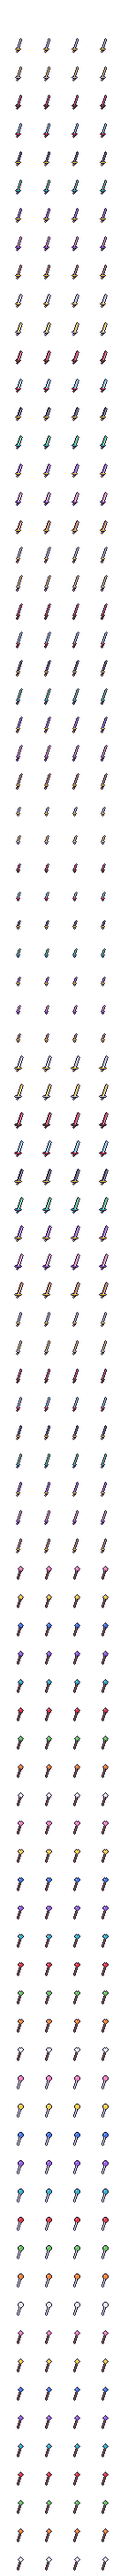
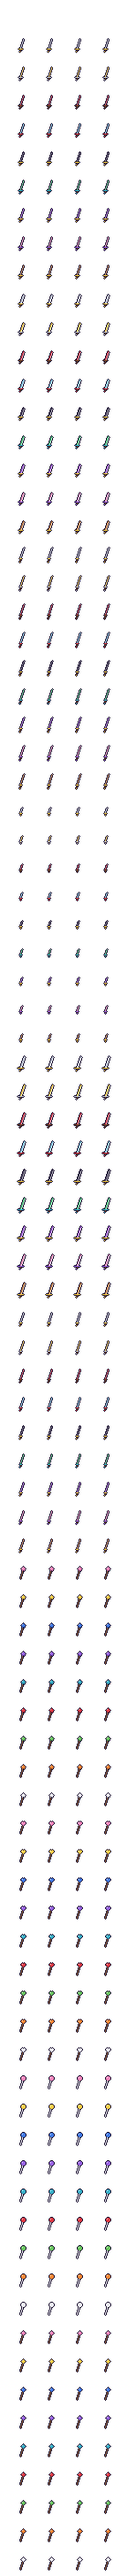
fix: adjust weapon walk spacing, recover knockback hurt state, add tram tunnel portals

diff --git a/src/scenes/trapVisuals.js b/src/scenes/trapVisuals.js
@@ -54,25 +54,127 @@ function roller(scene, trap) {
 }
 
 // TRAM LEWAT -----------------------------------------------------------------------------------
+function buildTunnelPortal(scene, x, G, isLeft) {
+  // 1. Dark cavern interior behind the tram (depth 7.8, behind body at depth 21)
+  const interior = scene.add.graphics().setDepth(DEPTH.trap);
+  interior.fillStyle(0x06080e, 1);
+  interior.fillRect(x - 24, G - 54, 48, 56);
+  interior.fillStyle(0x131924, 0.8);
+  interior.fillRect(x - 22, G - 52, 44, 6);
+
+  // 2. Front Arch Facade in FRONT of the tram (depth 21.5, masks the tram entering/exiting)
+  const facade = scene.add.graphics().setDepth(21.5);
+  const w = 54, h = 64;
+  const left = x - w / 2;
+  const top = G - h;
+
+  // Solid dark stone archway body
+  facade.fillStyle(0x1e2430, 1);
+  facade.fillRect(left, top, w, h);
+
+  // Arch header and pillars (leaving 38px width x 48px opening for the 46px tall tram)
+  facade.fillStyle(0x2d3648, 1);
+  facade.fillRect(left, top, w, 16);             // Arch header
+  facade.fillRect(left, top + 16, 8, 48);        // Outer pillar
+  facade.fillRect(left + w - 8, top + 16, 8, 48);// Inner pillar
+
+  // Cornice trim on top
+  facade.fillStyle(0x0f172a, 1);
+  facade.fillRect(left - 3, top - 2, w + 6, 3);
+  facade.lineStyle(1, 0x64748b, 0.85);
+  facade.lineBetween(left - 3, top - 2, left + w + 3, top - 2);
+
+  // Keystone center block in European arched stone style
+  facade.fillStyle(0x94a3b8, 1);
+  facade.fillRect(x - 5, top + 3, 10, 9);
+  facade.lineStyle(1, 0x000000, 0.7);
+  facade.strokeRect(x - 5, top + 3, 10, 9);
+
+  // Stone block mortar lines
+  facade.lineStyle(1, 0x111622, 0.85);
+  facade.lineBetween(left, top + 8, left + w, top + 8);
+  for (let py = top + 16; py < G; py += 12) {
+    facade.lineBetween(left, py, left + 8, py);
+    facade.lineBetween(left + w - 8, py, left + w, py);
+  }
+
+  // Inner shadow rim around the tunnel mouth
+  facade.fillStyle(0x0a0d14, 0.95);
+  facade.fillRect(left + 8, top + 16, 3, 48);
+  facade.fillRect(left + w - 11, top + 16, 3, 48);
+  facade.fillRect(left + 8, top + 16, w - 16, 4);
+
+  // Warning Railway Lantern above the portal
+  const lantern = scene.add.graphics().setDepth(21.6);
+  lantern.fillStyle(0x111827, 1);
+  lantern.fillRect(x - 3, top - 9, 6, 7);
+
+  return { interior, facade, lantern, x };
+}
+
 function tram(scene, trap) {
   const ext = trap.half + trap.len;
-  const rails = scene.add.tileSprite(trap.x, G - 2, ext * 2 + 36, 6, "trap-rails").setOrigin(0.5, 0).setDepth(DEPTH.rail);
-  const sigL = scene.add.sprite(trap.x - ext - 14, G, "trap-signal", 0).setOrigin(0.5, 1).setDepth(DEPTH.top);
-  const sigR = scene.add.sprite(trap.x + ext + 14, G, "trap-signal", 0).setOrigin(0.5, 1).setDepth(DEPTH.top);
+  const rails = scene.add.tileSprite(trap.x, G - 2, ext * 2 + 56, 6, "trap-rails").setOrigin(0.5, 0).setDepth(DEPTH.rail);
+  const tunnelL = buildTunnelPortal(scene, trap.x - ext, G, true);
+  const tunnelR = buildTunnelPortal(scene, trap.x + ext, G, false);
+  const sigL = scene.add.sprite(trap.x - ext - 34, G, "trap-signal", 0).setOrigin(0.5, 1).setDepth(DEPTH.top);
+  const sigR = scene.add.sprite(trap.x + ext + 34, G, "trap-signal", 0).setOrigin(0.5, 1).setDepth(DEPTH.top);
   const body = scene.add.image(trap.x, G + 1, "trap-tram").setOrigin(0.5, 1).setDepth(DEPTH.front).setAlpha(0).setVisible(false);
+  const beam = scene.add.graphics().setDepth(DEPTH.top);
+
   const obj = {
-    trap, parts: [body], lastBeat: -1, lastActive: false,
+    trap, parts: [body, rails, tunnelL.facade, tunnelR.facade], lastBeat: -1, lastActive: false,
     update(now) {
       const s = tramState(trap, now);
       const beat = Math.floor(now / 250);
       const frame = s.lights ? 1 + (beat % 2) : 0;
       sigL.setFrame(frame); sigR.setFrame(frame === 0 ? 0 : 3 - frame);
+
+      // Warning lantern on the tunnel portal header
+      const lanternColor = s.lights ? (beat % 2 === 0 ? 0xf59e0b : 0xef4444) : 0x475569;
+      tunnelL.lantern.clear();
+      tunnelL.lantern.fillStyle(0x111827, 1).fillRect(tunnelL.x - 3, G - 73, 6, 7);
+      tunnelL.lantern.fillStyle(lanternColor, 1).fillCircle(tunnelL.x, G - 69, 2.5);
+
+      tunnelR.lantern.clear();
+      tunnelR.lantern.fillStyle(0x111827, 1).fillRect(tunnelR.x - 3, G - 73, 6, 7);
+      tunnelR.lantern.fillStyle(lanternColor, 1).fillCircle(tunnelR.x, G - 69, 2.5);
+
+      // Headlight warning beam shining out onto the rails from the tunnel portal
+      beam.clear();
+      if ((s.lights || s.active) && near(scene, trap.x, 420)) {
+        const fromX = s.dir > 0 ? (trap.x - ext) : (trap.x + ext);
+        const toX = fromX + s.dir * 85;
+        const beamY = G - 18;
+        beam.fillStyle(0xfff2b0, s.active ? 0.22 : 0.14);
+        beam.fillTriangle(fromX, beamY, toX, beamY - 14, toX, beamY + 18);
+        beam.fillStyle(0xffffff, s.active ? 0.75 : 0.45);
+        beam.fillCircle(fromX + s.dir * 4, beamY, 3);
+      }
+
       if (s.bell && beat !== obj.lastBeat && near(scene, trap.x, 380)) retroAudio.playBell?.();
       obj.lastBeat = beat;
-      body.setVisible(s.active).setAlpha(s.alpha).setX(s.x).setFlipX(s.dir < 0);
+
+      // Tram is physically masked by the tunnel facade (depth 21.5); keeping alpha solid as it rolls out
+      body.setVisible(s.active).setAlpha(s.active ? 1 : 0).setX(s.x).setFlipX(s.dir < 0);
       if (s.active && !obj.lastActive && near(scene, trap.x, 380)) {
         retroAudio.playTrainWhistle?.();
         scene.cameras?.main?.shake(220, 0.0022);
+        // Spawn steam/track dust puffs as the tram bursts out of the tunnel mouth
+        const mouthX = s.dir > 0 ? (trap.x - ext) : (trap.x + ext);
+        for (let i = 0; i < 5; i++) {
+          const puff = scene.add.circle(mouthX, G - 12, Phaser.Math.Between(3, 5), 0xdde4ec, 0.75).setDepth(21.7);
+          scene.tweens.add({
+            targets: puff,
+            x: puff.x + s.dir * Phaser.Math.Between(15, 30),
+            y: puff.y - Phaser.Math.Between(4, 12),
+            alpha: 0,
+            scale: 1.8,
+            duration: Phaser.Math.Between(320, 500),
+            ease: "Quad.easeOut",
+            onComplete: () => puff.destroy()
+          });
+        }
       }
       obj.lastActive = s.active;
     },

diff --git a/src/scenes/WorldScene.js b/src/scenes/WorldScene.js
@@ -1018,6 +1018,12 @@ export class WorldScene extends Phaser.Scene {
       this.networkCharacterState = { state: `hurt-${this.playerFacing}`, grounded: false, vx: dir * TRAP.knockbackX, vy: -TRAP.knockbackY };
       this.setAvatarAnimation(`hurt-${this.playerFacing}`);
       this.trapKnockUntil = this.time.now + 350;
+      this.time.delayedCall(360, () => {
+        if (!this.player?.body || this.playerKo) return;
+        this.player.body.setVelocity(0, 0);
+        this.setAvatarAnimation("idle");
+        this.networkCharacterState = { state: "idle", grounded: this.player.body.onFloor(), vx: 0, vy: 0 };
+      });
       this.cameras.main.shake(140, 0.006);
       const damage = Number(data.damage) || 15;
       const newHp = Math.max(0, this.playerHp - damage);
@@ -1126,6 +1132,12 @@ export class WorldScene extends Phaser.Scene {
     this.player.body.reset(result.respawnX, result.respawnY);
     this.syncAvatarLayers();
     this.setAvatarAnimation(`hurt-${this.playerFacing}`);
+    this.time.delayedCall(420, () => {
+      if (!this.player?.body || this.playerKo) return;
+      this.player.body.setVelocity(0, 0);
+      this.setAvatarAnimation("idle");
+      this.networkCharacterState = { state: "idle", grounded: this.player.body.onFloor(), vx: 0, vy: 0 };
+    });
     this.time.delayedCall(1600, () => { this.hitCooldown = false; });
   }
 
@@ -3383,6 +3395,13 @@ export class WorldScene extends Phaser.Scene {
 
     // Trap knock-back: keep the push for a moment instead of letting held input cancel it.
     if (this.time.now < (this.trapKnockUntil || 0)) return;
+
+    // Safety recovery: stop knockback velocity once stun expires so the character doesn't slide/walk endlessly
+    if (this.avatarState.startsWith("hurt") && !this.playerKo) {
+      body.setVelocityX(0);
+      this.setAvatarAnimation("idle");
+      this.networkCharacterState = { state: "idle", grounded: body.onFloor(), vx: 0, vy: 0 };
+    }
 
     // Watchdog safety checks: prevent any flag from freezing player permanently
     if (this.isAttacking && (!this.attackStartTime || this.time.now - this.attackStartTime > 450)) {

diff --git a/src/scenes/TrainTravelScene.js b/src/scenes/TrainTravelScene.js
@@ -168,6 +168,18 @@ export class TrainTravelScene extends Phaser.Scene {
       color: "#fff3c5", backgroundColor: "#203449", padding: { x: 7, y: 5 },
       stroke: "#111", strokeThickness: 3
     }).setOrigin(0.5).setDepth(11);
+
+    // Station track tunnel portals framing train arrival & departure (depth 12, in front of train at depth 10)
+    const portalH = 82;
+    const tunnelLeft = this.add.graphics().setDepth(12);
+    tunnelLeft.fillStyle(0x1a212d, 1).fillRect(-8, railY - portalH, 32, portalH);
+    tunnelLeft.fillStyle(0x2d3648, 1).fillRect(18, railY - portalH, 6, portalH);
+    tunnelLeft.lineStyle(1.5, 0x475569, 0.9).strokeRect(-8, railY - portalH, 32, portalH);
+
+    const tunnelRight = this.add.graphics().setDepth(12);
+    tunnelRight.fillStyle(0x1a212d, 1).fillRect(W - 24, railY - portalH, 32, portalH);
+    tunnelRight.fillStyle(0x2d3648, 1).fillRect(W - 24, railY - portalH, 6, portalH);
+    tunnelRight.lineStyle(1.5, 0x475569, 0.9).strokeRect(W - 24, railY - portalH, 32, portalH);
   }
 
   drawStationPlatform(groundY) {

diff --git a/tools/make-gear-sheets.py b/tools/make-gear-sheets.py
@@ -148,7 +148,9 @@ def lighter(c, f=.55): return tuple(int(v + (255 - v) * f) for v in c)
 def weapon_frame(spec, a, d, anim="Idle", col=0):
     out = Image.new("RGBA", (F, F), (0, 0, 0, 0))
     s = -1 if d == "Left" else 1
-    hx = round(a["bcx"] + 5 * s)
+    # Forward spacing for walking/idle to prevent piercing the body/head
+    fwd_offset = 2.5 if anim in ("Walk", "Idle") else (1.5 if anim == "Jump" else 0)
+    hx = round(a["bcx"] + (5 + fwd_offset) * s)
     hy = a["feet"] - 7
 
     # Dynamic animation adjustments for weapon holding & attack swing:
@@ -164,8 +166,10 @@ def weapon_frame(spec, a, d, anim="Idle", col=0):
         hx += shift_x * s
         hy += shift_y
     elif anim == "Walk":
-        # Bob with stride
+        # Synchronize forward swing and vertical bob with stride
+        shift_x = [0, 1, 0, 1][col % 4]
         shift_y = [0, -1, 0, -1][col % 4]
+        hx += shift_x * s
         hy += shift_y
     elif anim == "Jump":
         hy -= 2
